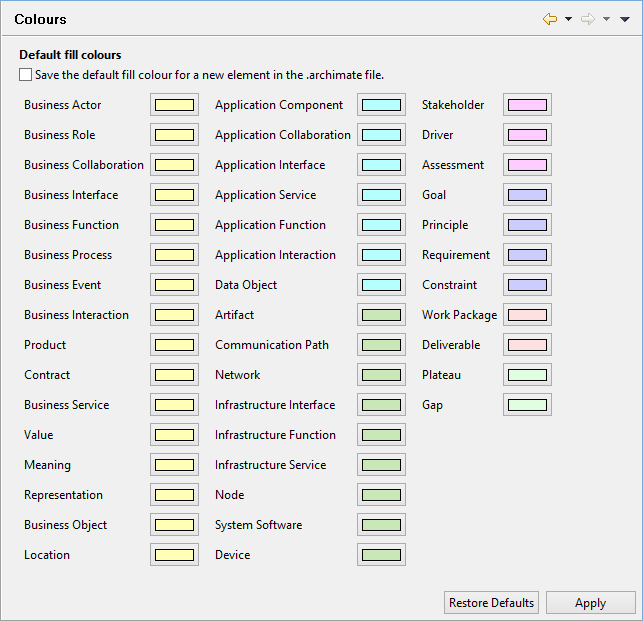
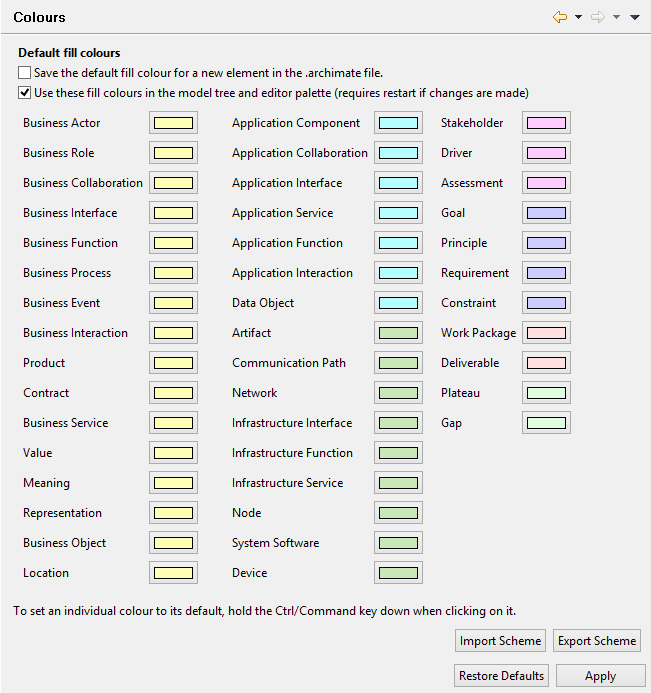
Update help files

Changed region(s): [[0.0, 0.0, 1.0, 1.0], [0.0, 0.9791, 0.0311, 1.0]]

diff --git a/uk.ac.bolton.archimate.help/help/prefs_colours.html b/uk.ac.bolton.archimate.help/help/prefs_colours.html
@@ -13,7 +13,18 @@
 	<p>Choose the default fill colours to use for ArchiMate elements. These are the colours that will be displayed when the fill colour is set to "Default" in the Properties window for a diagram element. The default fill colours can be set differently for each installation of Archi so, for example, one user can have a completely different set of default fill colours than another user. The colours will not be saved in the .archimate model file unless the option to "Save the default fill colour for a new element in the .archimate file" is ticked.
 	
 	<p><strong>Save the default fill colour for a new element in the .archimate file</strong><br/>
-	If this is checked a diagram element's default fill colour is saved in the .archimate file and will then be "fixed" in the file. This ensures that if the file is shared the recipient will see these colours.</p>    
+    If this is checked a diagram element's default fill colour is saved in the .archimate file and will then be "fixed" in the file. This ensures that if the file is shared the recipient will see these colours.</p>    
+
+    <p><strong>Use these fill colours in the model tree and editor palette</strong><br/>
+    If this is checked then these fill colours are used in the application in the model tree and editor pallete. This requires restarting the application for full effect.</p>    
+
+    <p><strong>Import Scheme</strong><br/>
+    Import a colour scheme that has previously been exported.</p>    
+
+    <p><strong>Export Scheme</strong><br/>
+    Export a colour scheme to share with other users.</p>
+    
+    <p>To set an individual colour to its default, hold the Ctrl/Command key down when clicking on it.</p>
 
     <p>&nbsp;</p>
 </body>

diff --git a/uk.ac.bolton.archimate.help/help/visualiser.html b/uk.ac.bolton.archimate.help/help/visualiser.html
@@ -20,6 +20,8 @@
 	<p>Selecting an element or relationship in the Model Tree, the Navigator, or in a View will update the focussed selection in the Visualiser window. To stop this from updating, you can press the "Pins the current view" button on the toolbar in the Visualiser window.</p>
 
 	<p>The first time a focussed element is displayed in the Visualiser window it is laid out with an animation. This animation can be turned off in <a href="prefs_general.html">Preferences</a>. If you wish to re-layout, you can press the "Layout" button on the toolbar in the Visualiser window.
+    
+    <p>You can save the contents of the Visualiser as an image to file, or copy the image to the system clipboard from the context menu.</p>
 
 	<p>&nbsp;</p>
 </body>

diff --git a/uk.ac.bolton.archimate.help/help/front.html b/uk.ac.bolton.archimate.help/help/front.html
@@ -13,7 +13,7 @@
 <p><img src="img/splash.png"></p>
 
 <p class="font14"><strong>User Guide</strong></p>
-<p class="font12"><strong>Version 2.4</strong></p>
+<p class="font12"><strong>Version 2.4.1</strong></p>
 
 <p>&nbsp;</p>
 
